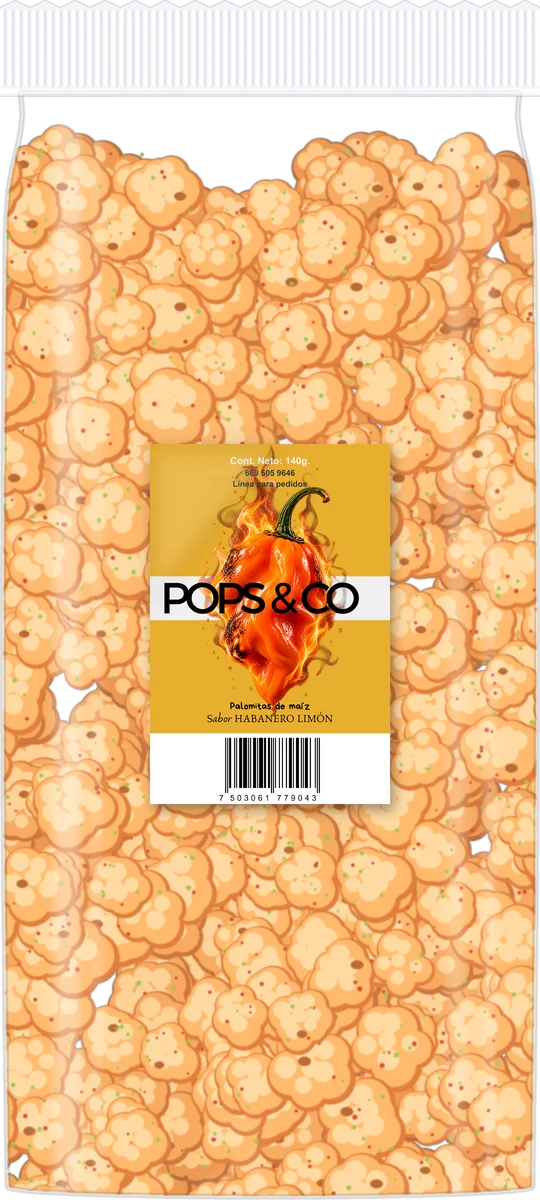
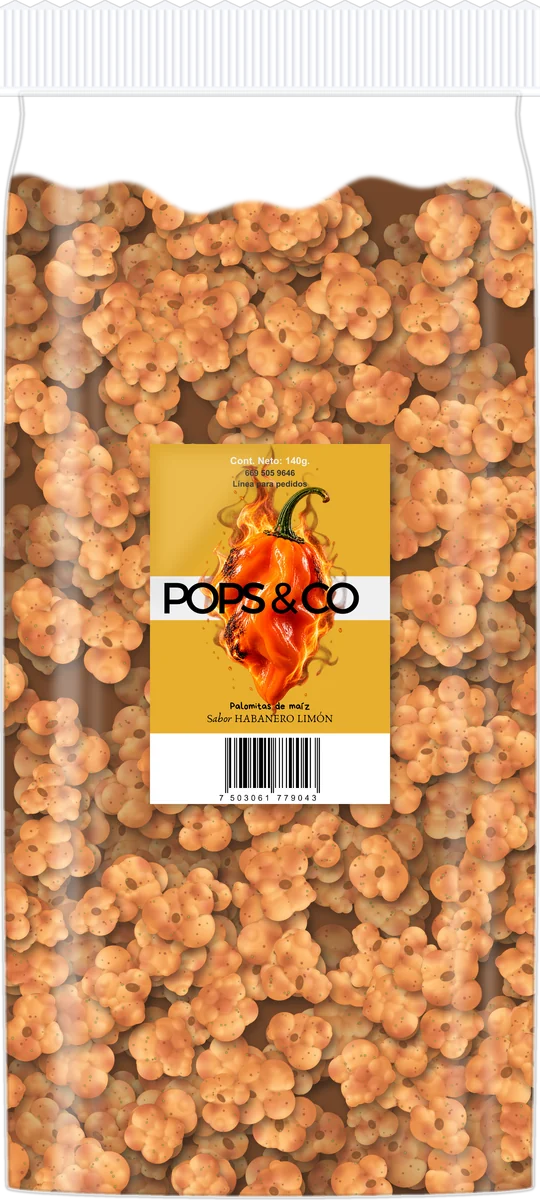
POPS & CO web v2.1: fuentes nuevas y palomitas con volumen
- Información en Anuphan (versión libre de Anuparp) y subtítulos en Google Sans
- Palomitas dibujadas como relieve iluminado, con pliegues, cascarita y sazonador
- Bolsas regeneradas con las palomitas nuevas

diff --git a/css/estilos.css b/css/estilos.css
@@ -12,7 +12,10 @@
   --blanco: #FFFFFF;
   --radio: 20px;
   --sombra: 0 10px 30px rgba(46, 15, 77, .12);
+  /* Títulos (como el logo), subtítulos e información */
   --fuente: "Jost", "Futura", "Century Gothic", system-ui, sans-serif;
+  --fuente-sub: "Google Sans", "Product Sans", system-ui, sans-serif;
+  --fuente-info: "Anuphan", "Anuparp", system-ui, sans-serif;
 }
 
 *, *::before, *::after { box-sizing: border-box; }
@@ -21,7 +24,7 @@ html { scroll-behavior: smooth; scroll-padding-top: 84px; }
 
 body {
   margin: 0;
-  font-family: var(--fuente);
+  font-family: var(--fuente-info);
   font-size: 18px;
   line-height: 1.6;
   color: var(--tinta);
@@ -33,7 +36,9 @@ img, svg { display: block; max-width: 100%; }
 
 h1, h2, h3 { line-height: 1.1; margin: 0 0 .5em; letter-spacing: -.01em; }
 h2 { font-size: clamp(2rem, 4.5vw, 3rem); font-weight: 700; color: var(--morado); }
-h3 { font-size: 1.3rem; font-weight: 600; }
+h1, h2 { font-family: var(--fuente); }
+h3 { font-family: var(--fuente-sub); font-size: 1.3rem; font-weight: 700; letter-spacing: 0; }
+.etiqueta, .menu a, .pie__menu a, .titulo p:last-child, .chips li, .datos strong, .paso__numero, .contacto__linea { font-family: var(--fuente-sub); }
 p { margin: 0 0 1em; }
 
 a { color: inherit; }
@@ -54,7 +59,7 @@ a { color: inherit; }
 .boton {
   display: inline-flex; align-items: center; justify-content: center;
   padding: 14px 26px; border-radius: 999px; border: 2px solid transparent;
-  font: 600 1rem/1 var(--fuente); text-decoration: none; cursor: pointer;
+  font: 500 1rem/1 var(--fuente-sub); text-decoration: none; cursor: pointer;
   transition: transform .15s ease, background-color .15s ease, box-shadow .15s ease;
 }
 .boton:hover { transform: translateY(-2px); }
@@ -178,7 +183,7 @@ a { color: inherit; }
 .vitrina__info h2 { margin-bottom: 28px; }
 .vitrina__tabs { display: flex; flex-wrap: wrap; gap: 10px; margin-bottom: 28px; }
 .sabor-tab {
-  font: 600 1rem/1 var(--fuente); cursor: pointer;
+  font: 500 1rem/1 var(--fuente-sub); cursor: pointer;
   padding: 12px 18px 12px 14px; border-radius: 999px;
   border: 2px solid #E4DCEC; background: var(--blanco); color: var(--morado-oscuro);
   display: inline-flex; align-items: center; gap: 10px;
@@ -266,7 +271,7 @@ a { color: inherit; }
 .formulario label { display: grid; gap: 6px; font-weight: 500; color: var(--morado-oscuro); font-size: .95rem; }
 .opcional { color: var(--tinta-suave); font-weight: 400; }
 .formulario input, .formulario textarea {
-  font: 400 1rem var(--fuente); color: var(--tinta);
+  font: 400 1rem var(--fuente-info); color: var(--tinta);
   border: 2px solid #E4DCEC; border-radius: 12px; padding: 12px 14px; width: 100%;
   background: #FCFAFE; transition: border-color .15s ease;
 }

diff --git a/index.html b/index.html
@@ -18,7 +18,7 @@
 
   <link rel="preconnect" href="https://fonts.googleapis.com">
   <link rel="preconnect" href="https://fonts.gstatic.com" crossorigin>
-  <link href="https://fonts.googleapis.com/css2?family=Jost:wght@400;500;600;700;800&display=swap" rel="stylesheet">
+  <link href="https://fonts.googleapis.com/css2?family=Jost:wght@600;700;800&family=Google+Sans:wght@400;500;700&family=Anuphan:wght@300;400;500;600&display=swap" rel="stylesheet">
   <link rel="preload" as="image" href="assets/img/bolsas/queso.webp">
   <link rel="stylesheet" href="css/estilos.css">
 </head>

diff --git a/herramientas/generar_bolsas.py b/herramientas/generar_bolsas.py
@@ -5,7 +5,7 @@ etiqueta de 8 x 12 cm al centro y palomitas visibles dentro.
 
 Uso (desde la carpeta del proyecto):
     python herramientas/generar_bolsas.py      (Mac: python3)
-Requiere Pillow:  python -m pip install pillow
+Requiere Pillow y NumPy:  python -m pip install pillow numpy
 
 Salida: assets/img/bolsas/<sabor>.webp, assets/img/etiquetas/<sabor>.webp
 y assets/img/palomitas/palomita-N.webp
@@ -14,6 +14,7 @@ import math
 import os
 import random
 
+import numpy as np
 from PIL import Image, ImageChops, ImageDraw, ImageFilter
 
 RAIZ = os.path.dirname(os.path.dirname(os.path.abspath(__file__)))
@@ -27,14 +28,14 @@ SELLO = int(3.2 * CM)        # alto del sello acanalado
 
 SABORES = {
     'tradicional': dict(
-        base=(250, 241, 218), sombra=(214, 190, 142), luz=(255, 253, 244),
-        casco=(200, 140, 55), polvo=[(255, 255, 255)], polvo_n=0.4),
+        base=(255, 250, 236), sombra=(190, 160, 110), luz=(255, 255, 250),
+        casco=(196, 128, 44), polvo=[(255, 255, 255)], polvo_n=0),
     'queso': dict(
         base=(255, 203, 102), sombra=(226, 146, 38), luz=(255, 232, 158),
         casco=(190, 110, 30), polvo=[(244, 140, 22), (255, 170, 40)], polvo_n=1.0),
     'queso-jalapeno': dict(
         base=(255, 206, 110), sombra=(224, 150, 48), luz=(255, 234, 166),
-        casco=(190, 110, 30), polvo=[(66, 120, 40), (244, 150, 30)], polvo_n=1.0),
+        casco=(190, 110, 30), polvo=[(244, 150, 30), (66, 120, 40), (66, 120, 40)], polvo_n=1.0),
     'habanero-limon': dict(
         base=(255, 178, 92), sombra=(222, 112, 40), luz=(255, 214, 152),
         casco=(180, 90, 30), polvo=[(214, 58, 28), (150, 192, 60)], polvo_n=1.0),
@@ -44,43 +45,101 @@ SABORES = {
 }
 
 
-def mezclar(c1, c2, t):
-    return tuple(int(a + (b - a) * t) for a, b in zip(c1, c2))
+def _desenfocar(arr, radio):
+    """Desenfoque gaussiano de una matriz 0..1 (vía Pillow)."""
+    im = Image.fromarray(np.clip(arr * 255, 0, 255).astype('uint8'))
+    return np.asarray(im.filter(ImageFilter.GaussianBlur(radio)), dtype='float32') / 255
 
 
-def palomita(draw, cx, cy, tam, pal, rng, oscuro=0.0):
-    """Dibuja una palomita: varios lóbulos con sombra, color base y brillo."""
-    sombra = mezclar(pal['sombra'], (60, 40, 30), oscuro * 0.5)
-    base = mezclar(pal['base'], pal['sombra'], oscuro)
-    luz = mezclar(pal['luz'], pal['base'], oscuro)
-    n = rng.randint(5, 7)
+def palomita(pal, rng, tam=220):
+    """Devuelve la imagen de una palomita con volumen.
+
+    Se modela como un relieve (lóbulos esféricos grandes con bultos encima),
+    se ilumina desde arriba a la izquierda y se oscurecen los pliegues.
+    """
+    n = tam * 2                                   # se dibuja al doble y se reduce
+    yy, xx = np.mgrid[0:n, 0:n].astype('float32')
+    alto = np.zeros((n, n), 'float32')
+
+    def esfera(cx, cy, cz, r):
+        d2 = (xx - cx) ** 2 + (yy - cy) ** 2
+        z = cz + np.sqrt(np.clip(r * r - d2, 0, None))
+        np.maximum(alto, np.where(d2 < r * r, z, 0), out=alto)
+
+    c = n / 2
+    lobulos = [(c, c, n * rng.uniform(.17, .21))]
     giro = rng.uniform(0, math.tau)
-    lobulos = []
-    for i in range(n):
-        ang = giro + i * math.tau / n + rng.uniform(-.3, .3)
-        dist = tam * rng.uniform(.18, .34)
-        r = tam * rng.uniform(.26, .38)
-        lobulos.append((cx + math.cos(ang) * dist, cy + math.sin(ang) * dist, r))
-    lobulos.append((cx, cy, tam * .3))
+    cuantos = rng.randint(3, 5)
+    for i in range(cuantos):
+        ang = giro + i * math.tau / cuantos + rng.uniform(-.45, .45)
+        dist = n * rng.uniform(.13, .23)
+        lobulos.append((c + math.cos(ang) * dist, c + math.sin(ang) * dist, n * rng.uniform(.15, .23)))
     for x, y, r in lobulos:
-        draw.ellipse((x - r, y - r, x + r, y + r), fill=sombra + (255,))
-    for x, y, r in lobulos:
-        r2 = r * .86
-        draw.ellipse((x - r2 - r * .06, y - r2 - r * .08, x + r2 - r * .06, y + r2 - r * .08), fill=base + (255,))
-    for x, y, r in lobulos:
-        r3 = r * .42
-        ox, oy = x - r * .28, y - r * .3
-        draw.ellipse((ox - r3, oy - r3, ox + r3, oy + r3), fill=luz + (255,))
-    if rng.random() < .45:  # pedacito de cascarita
+        esfera(x, y, 0, r)
+    for _ in range(rng.randint(12, 18)):          # bultos sobre los lóbulos
+        x0, y0, r0 = rng.choice(lobulos)
         ang = rng.uniform(0, math.tau)
-        x, y = cx + math.cos(ang) * tam * .25, cy + math.sin(ang) * tam * .25
-        r = tam * .09
-        draw.ellipse((x - r, y - r * .7, x + r, y + r * .7), fill=pal['casco'] + (255,))
-    for _ in range(int(rng.randint(3, 9) * pal['polvo_n'])):  # sazonador
-        x = cx + rng.uniform(-.45, .45) * tam
-        y = cy + rng.uniform(-.45, .45) * tam
-        r = tam * rng.uniform(.015, .035)
-        draw.ellipse((x - r, y - r, x + r, y + r), fill=rng.choice(pal['polvo']) + (255,))
+        d = r0 * rng.uniform(.35, .85)
+        r = r0 * rng.uniform(.28, .5)
+        x, y = x0 + math.cos(ang) * d, y0 + math.sin(ang) * d
+        base = math.sqrt(max(r0 * r0 - d * d, 0))
+        esfera(x, y, base * .75, r)
+
+    mascara = alto > 0
+    alto_s = _desenfocar(alto / alto.max(), n * .012) * alto.max()
+    gy, gx = np.gradient(alto_s)
+    norma = np.sqrt(gx * gx + gy * gy + 1)
+    luz_dir = np.array([-.45, -.6, .66]); luz_dir /= np.linalg.norm(luz_dir)
+    difusa = np.clip((-gx * luz_dir[0] - gy * luz_dir[1] + luz_dir[2]) / norma, 0, 1)
+
+    rel = alto / alto.max()
+    pliegue = np.clip((_desenfocar(rel, n * .05) - rel) * 7, 0, 1)      # zonas hundidas
+    sombra_amb = np.clip(1 - pliegue * .85, 0, 1)
+    tono = (.30 + .70 * difusa) * sombra_amb
+    grano = np.asarray(Image.effect_noise((n, n), 40).filter(ImageFilter.GaussianBlur(1.5)), 'float32') / 255 - .5
+    tono = np.clip(tono * (1 + grano * .5), 0, 1)
+
+    base = np.array(pal['base'], 'float32')
+    sombra = np.array(pal['sombra'], 'float32')
+    luz = np.array(pal['luz'], 'float32')
+    casco = np.array(pal['casco'], 'float32')
+    color = sombra + (base - sombra) * tono[..., None]
+    color += (luz - color) * (np.clip(difusa, 0, 1) ** 5 * .55)[..., None]
+    color += (casco - color) * (pliegue ** 1.5 * .55)[..., None]          # pliegues tostados
+
+    # sazonador en manchas irregulares
+    if pal['polvo_n'] > 0:
+        chico = Image.fromarray((np.array([[rng.random() for _ in range(7)] for _ in range(7)]) * 255).astype('uint8'))
+        manchas = np.asarray(chico.resize((n, n), Image.BICUBIC), 'float32') / 255
+        manchas = np.clip((manchas - .35) * 1.8, 0, 1) * .5 * pal['polvo_n']
+        polvo = np.array(pal['polvo'][0], 'float32')
+        color += (polvo * (.55 + .45 * tono[..., None]) - color) * manchas[..., None]
+
+    im = Image.fromarray(np.dstack([np.clip(color, 0, 255), mascara * 255.0]).astype('uint8'), 'RGBA')
+
+    # cascarita y granitos de sazonador
+    extra = Image.new('RGBA', (n, n), (0, 0, 0, 0))
+    d = ImageDraw.Draw(extra)
+    if rng.random() < .6:
+        x, y = c + rng.uniform(-.08, .08) * n, c + rng.uniform(-.08, .08) * n
+        rx, ry = n * rng.uniform(.05, .08), n * rng.uniform(.03, .05)
+        d.ellipse((x - rx, y - ry, x + rx, y + ry), fill=tuple(int(v * .8) for v in pal['casco']) + (230,))
+        d.ellipse((x - rx * .5, y - ry * .7, x + rx * .1, y - ry * .1), fill=pal['casco'] + (255,))
+    for _ in range(int(rng.randint(14, 30) * pal['polvo_n'])):
+        x, y = rng.uniform(.15, .85) * n, rng.uniform(.15, .85) * n
+        r = n * rng.uniform(.004, .011)
+        d.ellipse((x - r, y - r, x + r, y + r), fill=rng.choice(pal['polvo']) + (220,))
+    extra = extra.filter(ImageFilter.GaussianBlur(n * .004))
+    extra.putalpha(ImageChops.multiply(extra.getchannel('A'), im.getchannel('A')))
+    im.alpha_composite(extra)
+    return im.resize((tam, tam), Image.LANCZOS)
+
+
+def sombra_de(im):
+    """Sombra suave de una palomita, para dar profundidad al apilarlas."""
+    s = Image.new('RGBA', im.size, (30, 12, 0, 0))
+    s.putalpha(im.getchannel('A').filter(ImageFilter.GaussianBlur(im.width * .05)).point(lambda v: int(v * .55)))
+    return s
 
 
 def contorno_bolsa():
@@ -110,19 +169,33 @@ def generar_bolsa(sabor, pal, etiqueta_path, semilla):
     cuerpo = Image.new('L', (ANCHO, ALTO), 0)
     ImageDraw.Draw(cuerpo).polygon(contorno_bolsa(), fill=255)
 
-    # --- Palomitas dentro ---
-    relleno = Image.new('RGBA', (ANCHO, ALTO), (0, 0, 0, 0))
-    d = ImageDraw.Draw(relleno)
-    tope = SELLO + int(2.6 * CM)
-    capas = [(.55, 260), (.25, 260), (0.0, 300)]   # (oscuridad, cantidad): de atrás hacia adelante
-    for oscuro, cantidad in capas:
+    # --- Palomitas dentro: tres capas, de atrás (más oscura) hacia adelante ---
+    moldes = [palomita(pal, rng) for _ in range(14)]
+    sombras = [sombra_de(m) for m in moldes]
+    relleno = Image.new('RGBA', (ANCHO, ALTO), tuple(int(v * .45) for v in pal['sombra']) + (255,))
+    tope = SELLO + int(2.4 * CM)
+    for brillo, cantidad in [(.62, 190), (.82, 190), (1.0, 210)]:
         for _ in range(cantidad):
-            x = rng.uniform(-CM, ANCHO + CM)
-            ondula = math.sin(x / ANCHO * math.pi * 3 + semilla) * CM * .6
-            y = rng.uniform(tope + ondula, ALTO + CM)
-            palomita(d, x, y, rng.uniform(1.7, 2.4) * CM, pal, rng, oscuro)
-    relleno = relleno.filter(ImageFilter.GaussianBlur(2))
-    relleno.putalpha(ImageChops.multiply(relleno.getchannel('A'), cuerpo))
+            k = rng.randrange(len(moldes))
+            lado = int(rng.uniform(2.5, 3.4) * CM)
+            ang = rng.uniform(0, 360)
+            m = moldes[k].resize((lado, lado), Image.LANCZOS).rotate(ang, Image.BICUBIC)
+            sm = sombras[k].resize((lado, lado), Image.LANCZOS).rotate(ang, Image.BICUBIC)
+            if brillo < 1:
+                r, g, b, a = m.split()
+                m = Image.merge('RGBA', [c.point(lambda v, f=brillo: int(v * f)) for c in (r, g, b)] + [a])
+            x = int(rng.uniform(-CM, ANCHO) - lado / 2 + CM / 2)
+            ondula = math.sin(x / ANCHO * math.pi * 3 + semilla) * CM * .5
+            y = int(rng.uniform(tope + ondula, ALTO) - lado / 2)
+            relleno.alpha_composite(sm, (max(x + 10, 0), max(y + 16, 0)), (max(-x - 10, 0), max(-y - 16, 0)))
+            relleno.alpha_composite(m, (max(x, 0), max(y, 0)), (max(-x, 0), max(-y, 0)))
+    # arriba de las palomitas la bolsa está vacía (transparente)
+    vacio = Image.new('L', (ANCHO, ALTO), 0)
+    borde_sup = [(x, tope + CM * .9 + math.sin(x / ANCHO * math.pi * 3 + semilla) * CM * .5 + math.sin(x / 55 + semilla) * CM * .28)
+                 for x in range(0, ANCHO + 30, 30)]
+    ImageDraw.Draw(vacio).polygon([(0, ALTO)] + borde_sup + [(ANCHO, ALTO)], fill=255)
+    vacio = vacio.filter(ImageFilter.GaussianBlur(6))
+    relleno.putalpha(ImageChops.multiply(vacio, cuerpo))
     lienzo.alpha_composite(relleno)
 
     # --- Celofán: velo, brillos y arrugas ---
@@ -190,13 +263,9 @@ def generar_bolsa(sabor, pal, etiqueta_path, semilla):
 def generar_palomitas():
     pal = SABORES['tradicional']
     for i in range(4):
-        rng = random.Random(100 + i)
-        tam = 600
-        im = Image.new('RGBA', (tam, tam), (0, 0, 0, 0))
-        palomita(ImageDraw.Draw(im), tam / 2, tam / 2, tam * .62, pal, rng)
-        im = im.filter(ImageFilter.GaussianBlur(1.2)).resize((160, 160), Image.LANCZOS)
+        im = palomita(pal, random.Random(100 + i), tam=320).resize((180, 180), Image.LANCZOS)
         ruta = os.path.join(SALIDA, 'palomitas', f'palomita-{i + 1}.webp')
-        im.save(ruta, 'WEBP', quality=88, method=6)
+        im.save(ruta, 'WEBP', quality=90, method=6)
         print('listo:', ruta)
 
 

diff --git a/README.md b/README.md
@@ -13,7 +13,7 @@ Página estática: no necesita instalar nada ni compilar.
 - `assets/img/bolsas/`: bolsas de celofán con la etiqueta de cada sabor (generadas).
 - `assets/original/`: logo y etiquetas originales tal como los entregó el cliente.
 - `herramientas/generar_bolsas.py`: vuelve a dibujar las bolsas si cambia una etiqueta.
-  Reemplazar la etiqueta en `assets/original/etiquetas/` y correr `python herramientas/generar_bolsas.py` (requiere `pip install pillow`).
+  Reemplazar la etiqueta en `assets/original/etiquetas/` y correr `python herramientas/generar_bolsas.py` (requiere `pip install pillow numpy`).
 
 ## Verla en la computadora
 Dentro de esta carpeta:

diff --git a/CLAUDE.md b/CLAUDE.md
@@ -7,6 +7,8 @@ Se publica con GitHub Pages (rama `main`, carpeta raíz). El archivo `CNAME` fij
 
 Responder en español, con explicaciones cortas.
 
+Fuentes: títulos en Jost (parecida al logo), subtítulos en Google Sans, información en Anuphan (versión libre de Anuparp Thai, que no está en Google Fonts).
+
 ## GitHub
 - Repositorio público: https://github.com/tendonapplication/pops-and-co-web (rama `main`). Se trabaja desde Windows y desde la Mac.
 - Al empezar: `git pull`. Al terminar: commit con mensaje claro y `git push`.
